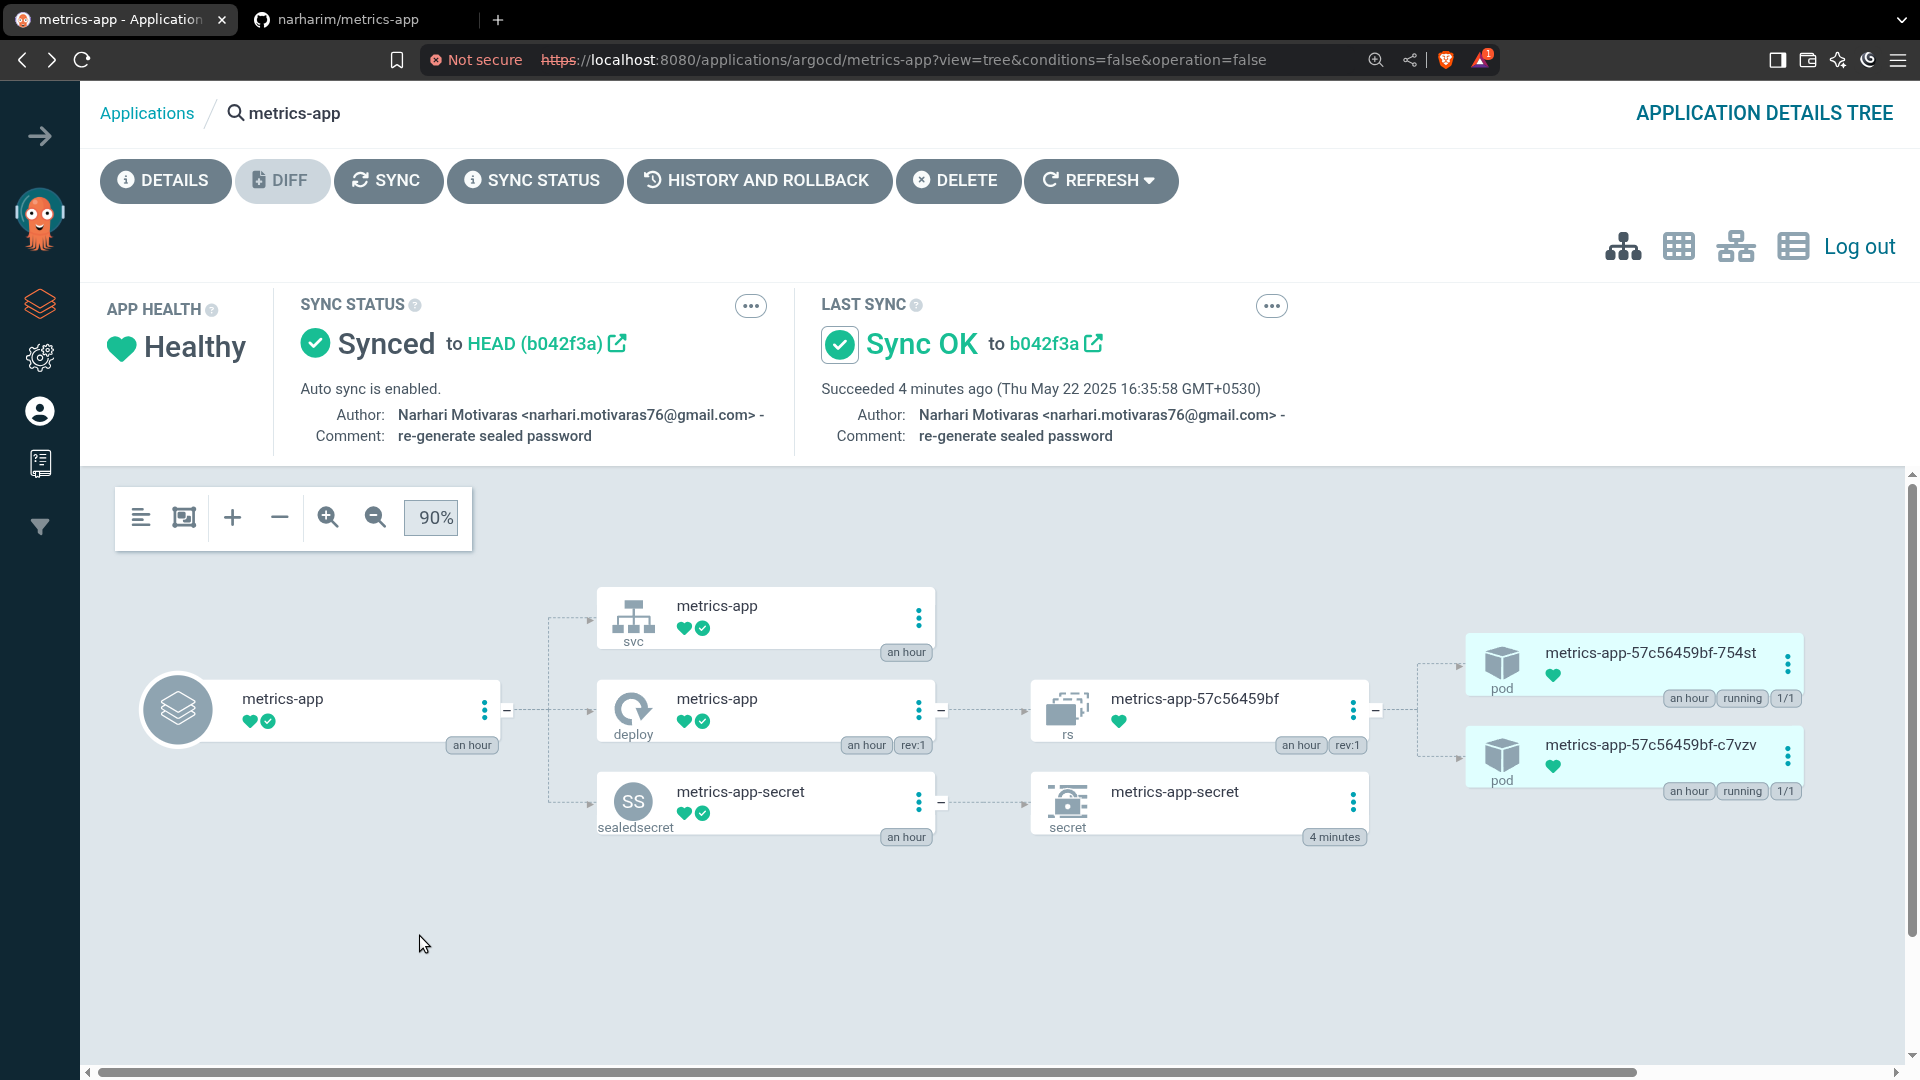
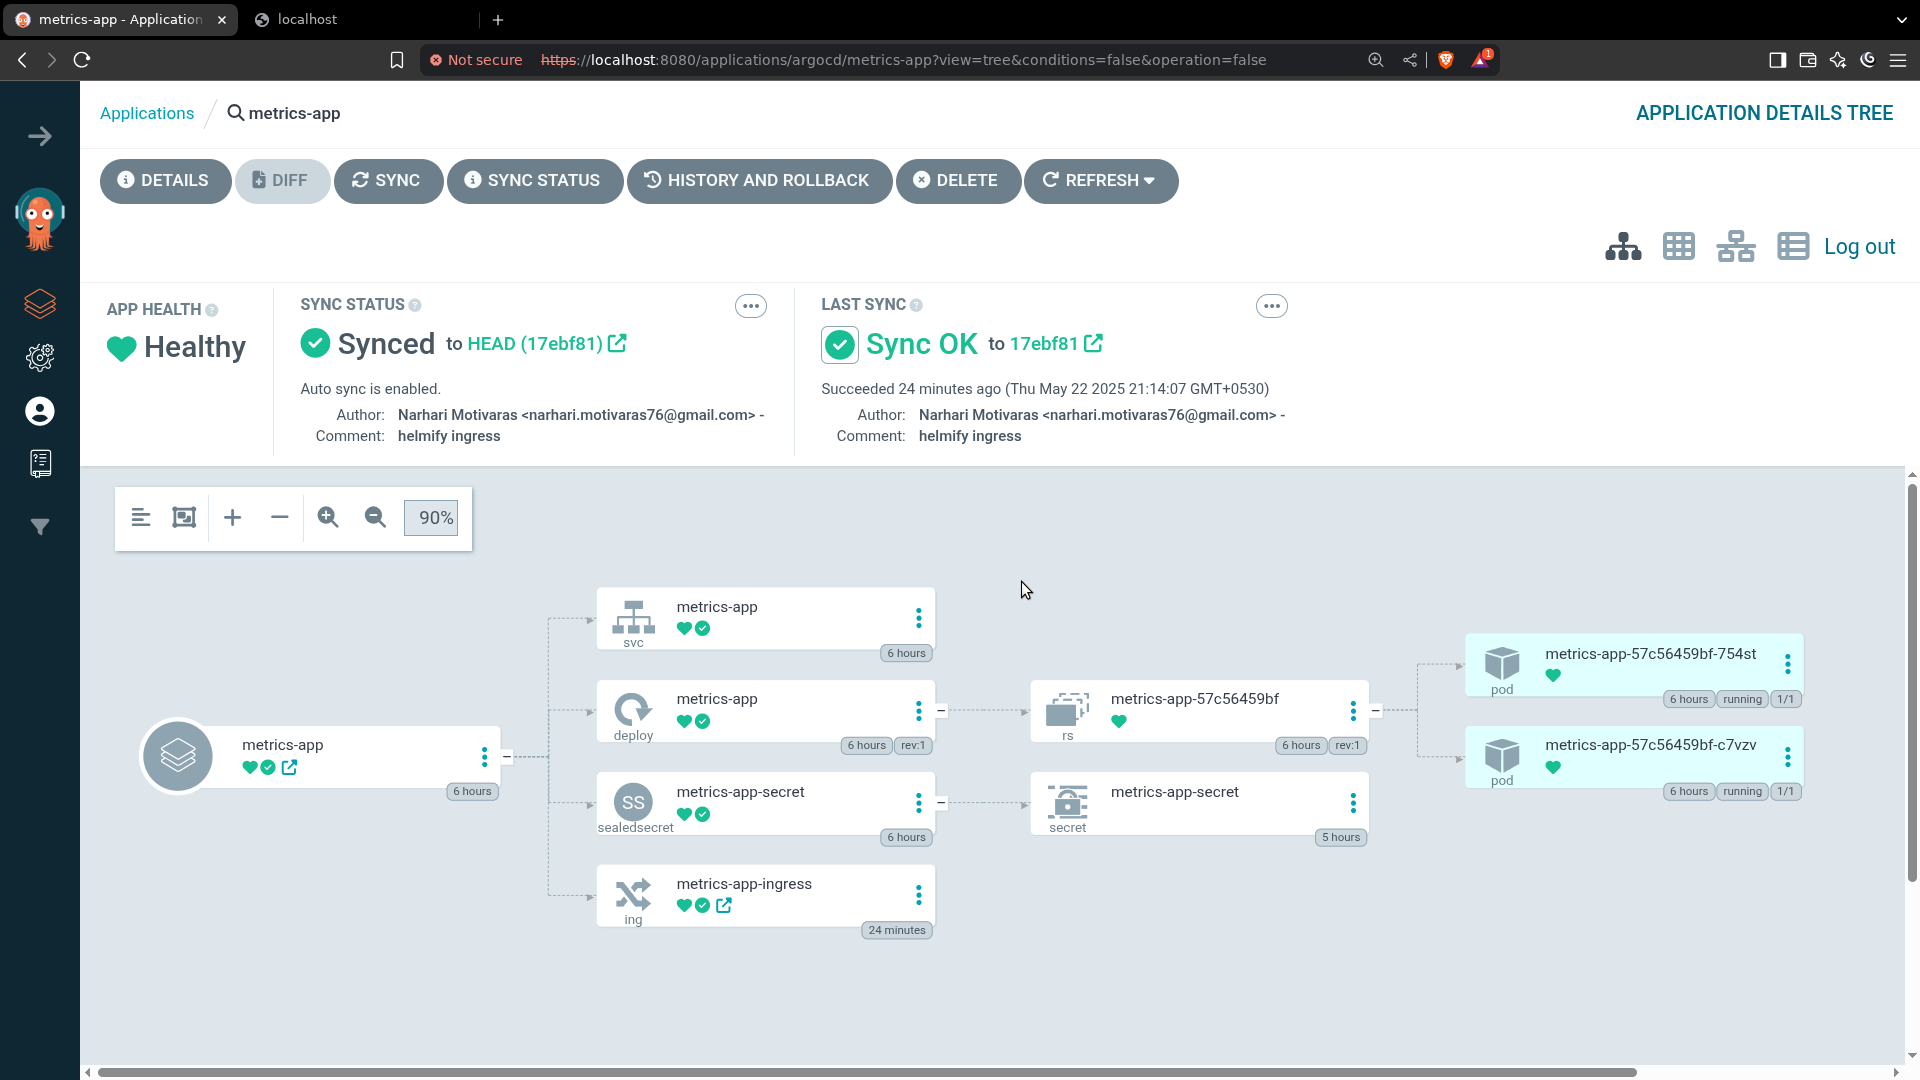
updated readme

diff --git a/README.md b/README.md
@@ -138,22 +138,38 @@ ssh-keygen -t rsa -b 4096 -f argocd-ssh-key
 3. Add the private key in ArgoCD UI
 
 ## **4. App Deployment**
+- deploy the app using ArgoCD via the Helm chart
+```yaml
+apiVersion: argoproj.io/v1alpha1
+kind: Application
+metadata:
+  name: metrics-app
+  namespace: argocd
+spec:
+  project: default
+  source:
+    repoURL: git@github.com:narharim/metrics-app.git 
+    targetRevision: v1.1 
+    path: helm/metrics-app
+    helm:
+      valueFiles:
+        - values.yaml
+  destination:
+    server: https://kubernetes.default.svc
+    namespace: default
+  syncPolicy:
+    automated:
+      selfHeal: true
+      prune: true
 
-[](https://github.com/cloudraftio/sre-assignment#3-app-deployment)
-
-- Use ArgoCD to deploy the app via the Helm chart, keeping best practices in mind.
-
+```
 ## **5. Ingress Setup**
 
-[](https://github.com/cloudraftio/sre-assignment#4-ingress-setup)
-
-- Set up an ingress resource (e.g., NGINX ingress controller) to expose the app externally at:
-    
-    ```
-    http://<your-local-url>/counter
-    ```
-    
-
+1. Install Ingress Setup
+```bash
+kubectl apply -f https://kind.sigs.k8s.io/examples/ingress/deploy-ingress-nginx.yaml
+```
+2. helmify ingress
 
 ## **6. Behaviour of Application**
 
@@ -273,6 +289,11 @@ ___
 ____
 
 ![live](./images/live.png)
-
 ___
-Thanks for amazing assignment. This the first time I interacted with argocd and helm comibned. Learnt a lot :)
+## **11. Additional Exploration**
+[Ingress resoure best practice](https://www.loft.sh/blog/kubernetes-nginx-ingress)
+[Helm x ArgoCD](https://argo-cd.readthedocs.io/en/latest/user-guide/helm/)
+____
+
+Thanks for amazing assignment. This the first time I interacted with argocd and helm. Learnt a lot :)
+
